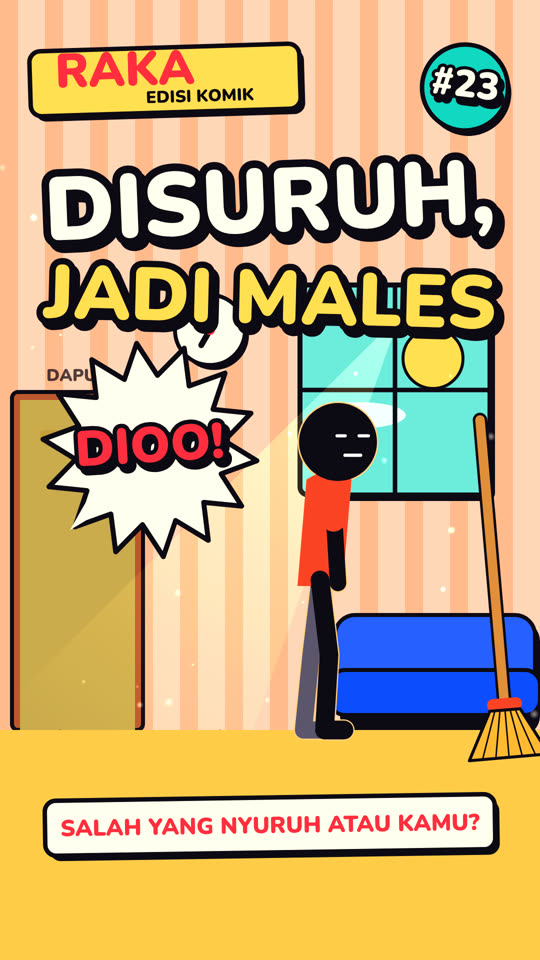
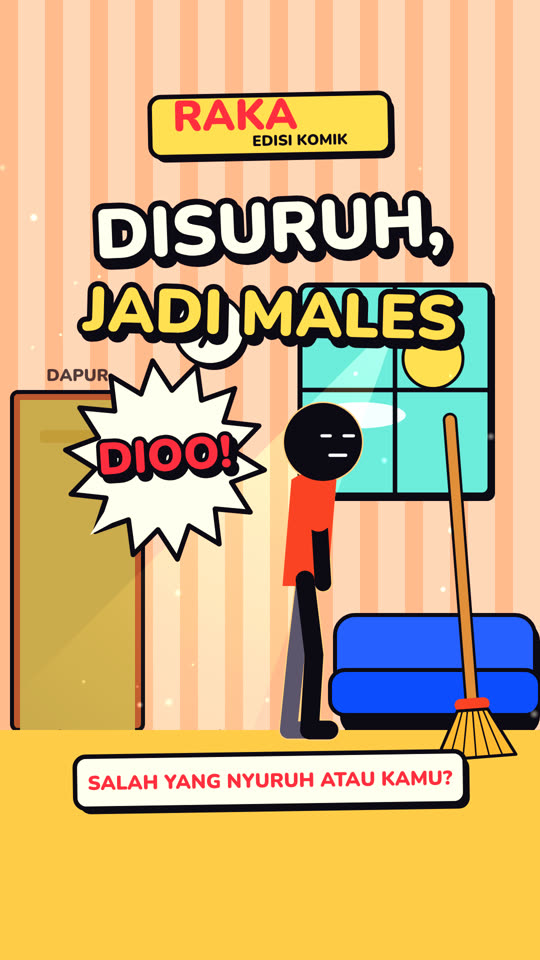
Cover Disuruh Jadi Males: tanpa nomor, elemen lebih ke tengah; batal kembali ke gaya sinematik
Claude-Session: https://claude.ai/code/session_0198S32EpgRRAap9XWfc998v

diff --git a/studio/projects/disuruh-jadi-males-cover/scenes/shots/cover.js b/studio/projects/disuruh-jadi-males-cover/scenes/shots/cover.js
@@ -118,11 +118,10 @@ registerShot('c01', { draw(g, t) { const c = P();
   g.fillStyle = wallC(c); g.fillRect(0, 0, E.W, E.H); g.fillStyle = alpha(shade(c.a, 0.2), 0.6); for (let x = 0; x < E.W; x += 90) g.fillRect(x, 0, 36, E.H);
   g.save(); g.translate(0, 330); ruang(g, c, 1.3, { glow: 1 }); g.restore();
   g.fillStyle = shade(c.c, -0.08); g.fillRect(0, GY + 330, E.W, E.H);
-  const Y = GY + 330; sapu(g, 960, Y - 620, 1010, Y - 40, 19);
-  fig(g, { x: 640, y: Y, s: 3.0, outfit: DIO, pose: POSES.sad, expr: 'sleepy' });
-  burst(g, 300, 900, 150, 215, 14, c.paper, 0.1); sticker(g, 'DIOO!', 300, 900, 100, c.hot, -0.06); poly(g, [[180, 990], [140, 1060], [240, 1000]], c.paper);
-  box(g, 330, 160, 540, 130, c.c, -0.03); txt(g, 'RAKA', 250, 145, 96, c.hot, -0.03); txt(g, 'EDISI KOMIK', 400, 192, 34, INK, -0.03);
-  g.save(); g.translate(930, 175); g.rotate(0.12); circle(g, 8, 10, 86, INK); circle(g, 0, 0, 86, c.b); g.lineWidth = 9; g.strokeStyle = INK; g.beginPath(); g.arc(0, 0, 86, 0, 6.3); g.stroke(); g.restore(); sticker(g, '#23', 930, 175, 76, c.paper, 0.12);
-  sticker(g, 'DISURUH,', 540, 420, 180, c.paper, -0.04); sticker(g, 'JADI MALES', 540, 610, 150, c.c, 0.025);
-  box(g, 540, 1650, 900, 110, c.paper, -0.015); txt(g, 'SALAH YANG NYURUH ATAU KAMU?', 540, 1652, 46, c.hot, -0.015);
+  const Y = GY + 330; sapu(g, 900, Y - 620, 945, Y - 40, 19);
+  fig(g, { x: 610, y: Y, s: 3.0, outfit: DIO, pose: POSES.sad, expr: 'sleepy' });
+  burst(g, 330, 920, 140, 200, 14, c.paper, 0.1); sticker(g, 'DIOO!', 330, 920, 90, c.hot, -0.06); poly(g, [[220, 1005], [180, 1070], [280, 1015]], c.paper);
+  box(g, 540, 250, 480, 120, c.c, -0.02); txt(g, 'RAKA', 470, 236, 86, c.hot, -0.02); txt(g, 'EDISI KOMIK', 600, 280, 30, INK, -0.02);
+  sticker(g, 'DISURUH,', 540, 470, 140, c.paper, -0.04); sticker(g, 'JADI MALES', 540, 640, 124, c.c, 0.025);
+  box(g, 540, 1560, 780, 104, c.paper, -0.015); txt(g, 'SALAH YANG NYURUH ATAU KAMU?', 540, 1562, 40, c.hot, -0.015);
 } });

diff --git a/STATUS.md b/STATUS.md
@@ -2,8 +2,7 @@
 
 ## Merge reengineering (28 Nov 2026, izin user)
 - Cabang `claude/trusting-heisenberg-tf11zf` (strategi v2, 7 skill, WORKFLOW 18 langkah + 5 gerbang, tools skor-ide/cek-naskah/qc-teknis/analitik) DIGABUNG. `CLAUDE.md` versi ringkas dari cabang itu dipakai; aturan lama ada di `brand/aturan-operasional.md`; aturan user sesudahnya (opening berganti, cover adegan, TANPA NOMOR EPISODE) ditambahkan di akhir `CLAUDE.md`.
-- **Aturan baru user 28 Nov: kembali ke animasi sinematik video lama** (acuan: Lupa Itu Wajar = style `arctic`, Terlanjur Jurusan = style `paper`; latar redup, cahaya jendela, god rays, kedalaman). Gaya komik (video 17-23) berhenti. Palet tetap dari `brand/palet-emosi.md`, dipilih user.
-- **Aturan baru user 28 Nov: tanpa nomor episode** di video, cover, judul, caption (cover Disuruh Jadi Males masih memuat badge "#23"; mulai video berikutnya tanpa badge).
+- **Aturan baru user 28 Nov: tanpa nomor episode** di video, cover, judul, caption (cover Disuruh Jadi Males sudah dirender ulang tanpa badge, margin dirapikan ke tengah).
 
 ## Video #23 "Disuruh Jadi Males" (28 Nov 2026), opening insert tangan + sapu, 76 dtk
 - Premis dari user: udah niat beresin rumah, lalu disuruh orang tua, niatnya hilang. Naskah draf 1 di-ACC tanpa revisi. Format Potong di Puncak (TERPUTUS di "malah jadi males", LANJUT di "besok paginya").
